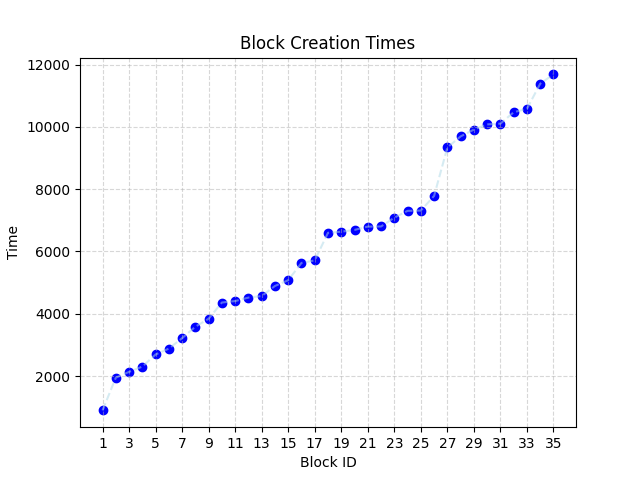
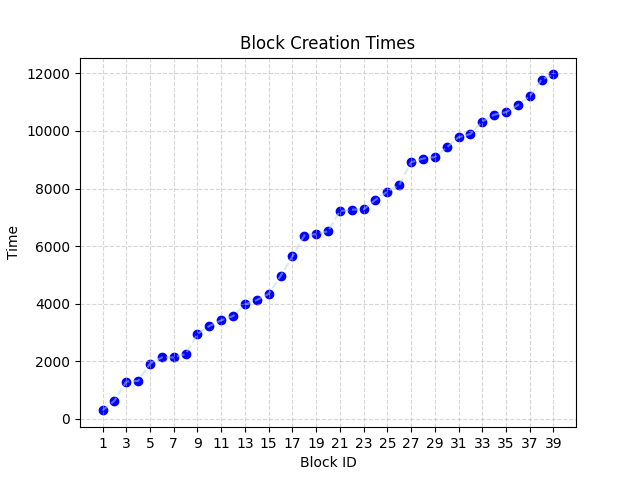
Added poisson distribution and mining cancelling when a block is received

diff --git a/gossipSim.py b/gossipSim.py
@@ -1,9 +1,10 @@
-#Imports:
+#Libraries:
 import numpy as np
 import simpy
 import random
 from config import *
 import matplotlib.pyplot as plt
+import math
 
 #Global variables:
 env = simpy.Environment()
@@ -73,6 +74,7 @@ class Node:
         self.chain_ends = set()
         self.peer_degree_met = False
         self.hashrate = hashrate
+        self.mining_height = 0
         
         #Add initial block to the chain ends:
         self.chain_ends.add(initial_end_chain)
@@ -106,6 +108,11 @@ class Node:
                     #Marks block as seen, now that it has received it:
                     self.seen_blocks.add(message.block_id)
                     self.blocks[message.block_id] = message
+
+                    if message.height == self.mining_height and self.mine_process is not None:
+                        self.mine_process.interrupt()
+                        self.mine_process = None
+
 
                     #Create 'I have' message for the received block:
                     i_have_message = IHaveMessage(self.node_id, self.env.now, message.block_id)
@@ -363,12 +370,38 @@ def get_number_forks():
 
     return len(forks) - 1
 
+#Calculate wait interval:
+def wait_time(hashrate_i, total_hashrate):
+    share = hashrate_i / total_hashrate
+    lam = share * lambda_NET
+    u = random.random()
+    return -math.log(u) / lam
+
 #Function allowing for repeated dynamic selection of proposal nodes based on hash-rate:
-def mining(node, mining_rate):
+def mining(node):
     while True:
-        wait_interval = random.expovariate(node.hashrate * mining_rate)
-        yield env.timeout(wait_interval)
-        created_blocks.append(node.create_block())
+        current_greatest_end = None
+        #Checks each fork:
+        for end in node.chain_ends:
+            if current_greatest_end == None or end.height > current_greatest_end.height:
+                current_greatest_end = end
+            #Checks to see which is longest chain:
+            elif end.height > current_greatest_end.height:
+                current_greatest_end = end
+        
+        height = current_greatest_end.height
+        node.mining_height = height + 1
+
+        wait_interval = wait_time(node.hashrate, total_hashrate)
+
+        try:
+            yield env.timeout(wait_interval)
+            created_blocks.append(node.create_block())
+            node.mining_height = 0
+        except simpy.Interrupt:
+            node.log.append((env.now, f"Mining cancelled at height {node.mining_height}"))
+            node.mining_height = 0
+
 
 #Finds total hash-rate of network:
 def calculate_total_hashrate():
@@ -389,11 +422,10 @@ instantiate_nodes()
 create_topology()
 
 total_hashrate = calculate_total_hashrate()
-mining_rate =  1 / (block_target_interval * total_hashrate)
 
 #Starts mining for each node:
 for node in nodes:
-    env.process(mining(node, mining_rate))
+    node.mine_process = env.process(mining(node))
 
 #Start simulation:
 env.run(until = simulation_time)

diff --git a/config.py b/config.py
@@ -21,3 +21,5 @@ simulation_time = 12000
 confirmation_depth = 2
 
 block_target_interval = 300
+
+lambda_NET = 1.0 / block_target_interval
